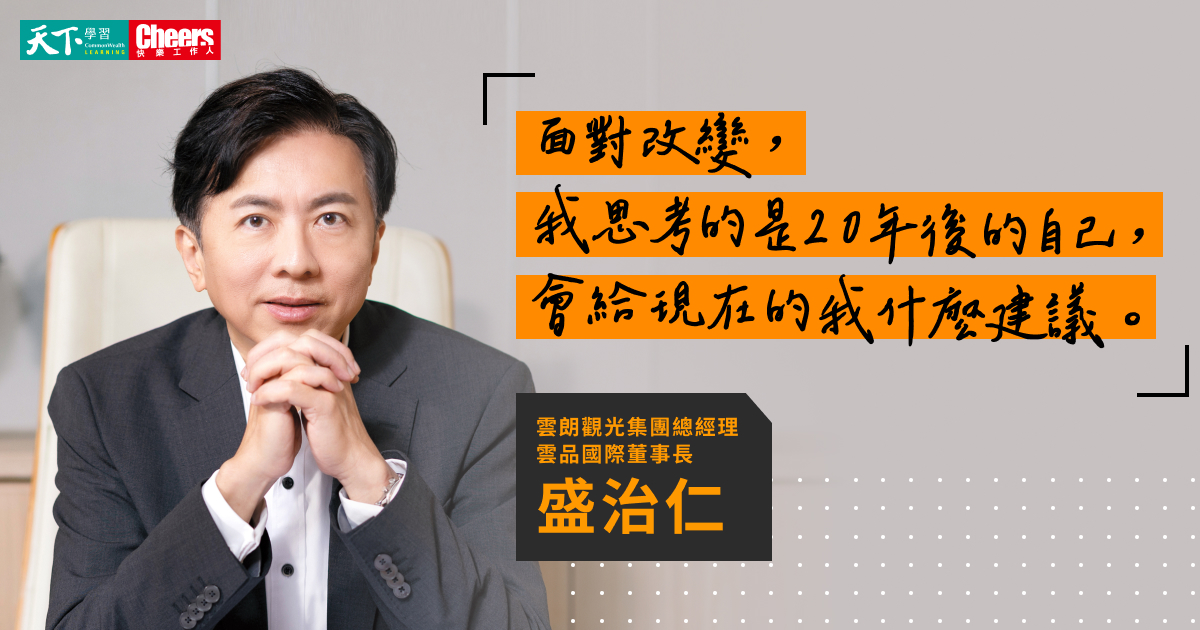
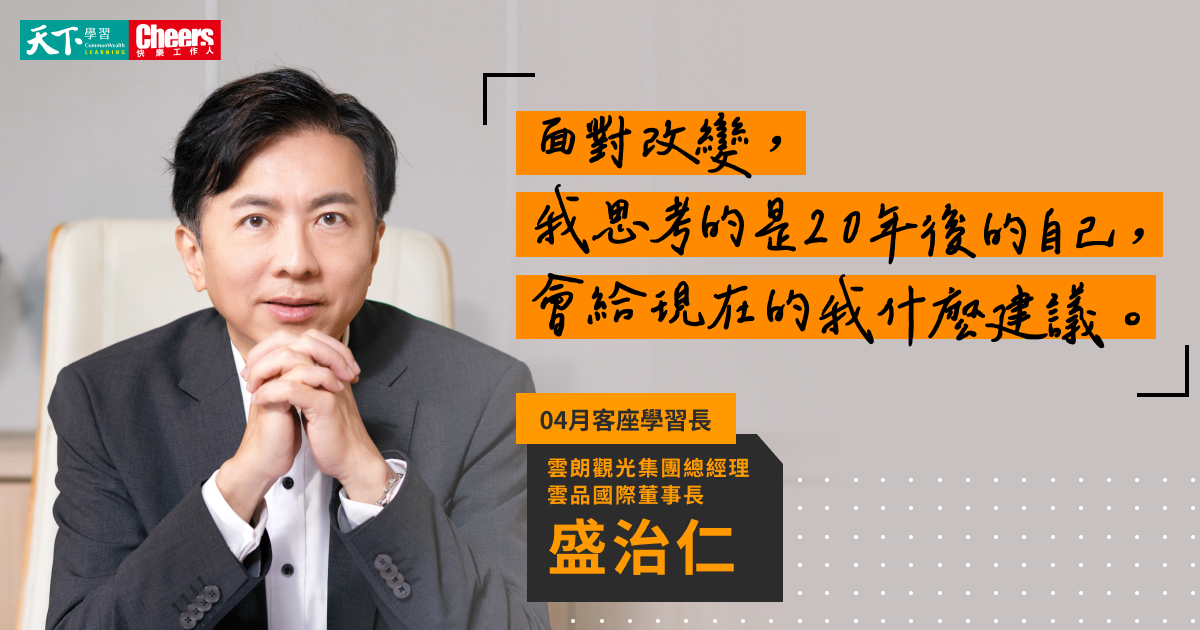
0331 debug

Changed region(s): [[0.4317, 0.6032, 0.6783, 0.9651]]

diff --git a/cheers_master/index.html b/cheers_master/index.html
@@ -89,10 +89,9 @@
 						<span class="option">客座學習長</span>
 					</div>
 					<div class="fakeSelect__option js-selectOption">
-						<a href="#" class="option">盛治仁</a>
-						<a href="#" class="option">盛治仁2</a>
-						<a href="#" class="option">盛治仁3</a>
-						<a href="#" class="option">盛治仁4</a>
+						<a href="#" class="option is-disabled">（預告）06月 李正屹</a>
+						<a href="#" class="option is-disabled">（預告）05月 徐瑞廷</a>
+						<a href="./index.html" class="option">04月 盛治仁</a>
 					</div>
 				</div>
 				<ul class="l-navbar d-md-flex align-items-center">
@@ -202,7 +201,7 @@
 									<ul class="list">
 										<li><span>第一次速讀10分鐘掌握結構</span></li>
 										<li><span>第二次細讀記錄筆記</span></li>
-										<li><span>第三次復述重點確保吸收</span></li>
+										<li><span>第三次複述重點確保吸收</span></li>
 									</ul>
 								</div>
 							</div>

diff --git a/cheers_master/index_bak.html b/cheers_master/index_bak.html
@@ -89,10 +89,9 @@
 						<span class="option">客座學習長</span>
 					</div>
 					<div class="fakeSelect__option js-selectOption">
-						<a href="#" class="option">盛治仁</a>
-						<a href="#" class="option">盛治仁2</a>
-						<a href="#" class="option">盛治仁3</a>
-						<a href="#" class="option">盛治仁4</a>
+						<a href="#" class="option is-disabled">（預告）06月 李正屹</a>
+						<a href="#" class="option is-disabled">（預告）05月 徐瑞廷</a>
+						<a href="./index.html" class="option">04月 盛治仁</a>
 					</div>
 				</div>
 				<ul class="l-navbar d-md-flex align-items-center">
@@ -202,7 +201,7 @@
 									<ul class="list">
 										<li><span>第一次速讀10分鐘掌握結構</span></li>
 										<li><span>第二次細讀記錄筆記</span></li>
-										<li><span>第三次復述重點確保吸收</span></li>
+										<li><span>第三次複述重點確保吸收</span></li>
 									</ul>
 								</div>
 							</div>

diff --git a/cheers_master/assets/css/style.css b/cheers_master/assets/css/style.css
@@ -389,7 +389,7 @@ body.openNav {
   left: 50%;
   background-color: #0094FF;
   z-index: 1000;
-  width: 8.5625rem;
+  width: 17.5rem;
   -webkit-transform: translateX(-50%);
   transform: translateX(-50%);
 }
@@ -407,6 +407,11 @@ body.openNav {
 }
 .f-fakeSelect .fakeSelect__option .option:hover {
   background-color: #186C98;
+}
+.f-fakeSelect .fakeSelect__option .option.is-disabled {
+  pointer-events: none;
+  background-color: #C3C3C3;
+  color: #A9A9A9;
 }
 @media (max-width: 769px) {
   .f-fakeSelect {

diff --git a/cheers_master/assets/scss/_layout.scss b/cheers_master/assets/scss/_layout.scss
@@ -216,7 +216,7 @@ body {
 		left: 50%;
 		background-color: $secondary;
 		z-index: 1000;
-		width: rem(137);
+		width: rem(280);
 		@include translateX(-50%);
 
 		.option {
@@ -232,6 +232,12 @@ body {
 
             &:hover {
                 background-color: $secondary-dark;
+            }
+
+            &.is-disabled {
+                pointer-events: none;
+                background-color: #C3C3C3;
+                color: #A9A9A9;
             }
 		}
 	}
